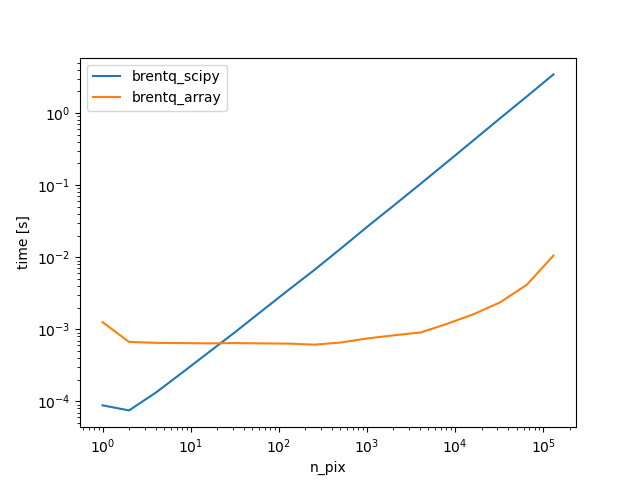
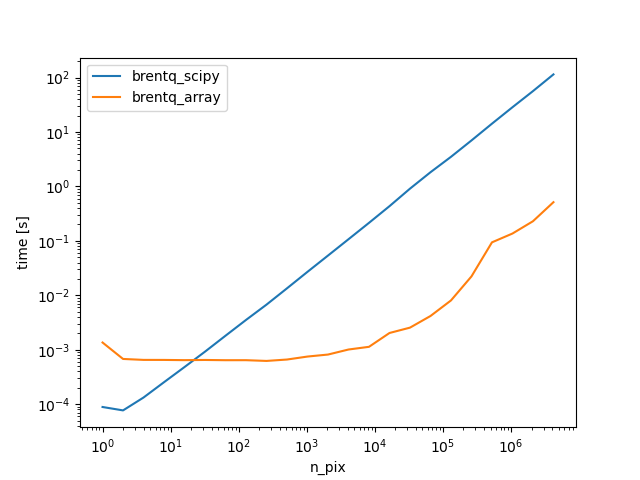
Update

diff --git a/test_brentq_array.py b/test_brentq_array.py
@@ -5,6 +5,7 @@ from scipy.optimize import brentq
 from brentq_array import brentq_array
 
 
+# TODO: add a few more test cases and functions...
 def f(x, a):
     return x - a
 

diff --git a/benchmark.py b/benchmark.py
@@ -7,7 +7,7 @@ from scipy.optimize import brentq
 
 from brentq_array import brentq_array
 
-n_pix = 2 ** np.arange(18)
+n_pix = 2 ** np.arange(23)
 
 
 def f(x, a):

diff --git a/README.md b/README.md
@@ -3,7 +3,9 @@ An array based implementation of Brent's method. It is checked for correctness a
 in the file `test_brentq_array.py`.
 
 # Benchmark
-This is a benchmark of the array based implementation of Brent's method agains the naive Python loop and using Scipy's implementation.
+This is a benchmark of the array based implementation of Brent's method agains the naive Python loop and using Scipy's implementation. The benchmark was executed on an M1 Macbook Pro with 16GB of RAM. 
+
+```bash
 
 ![benchmark](benchmark.png)
 
